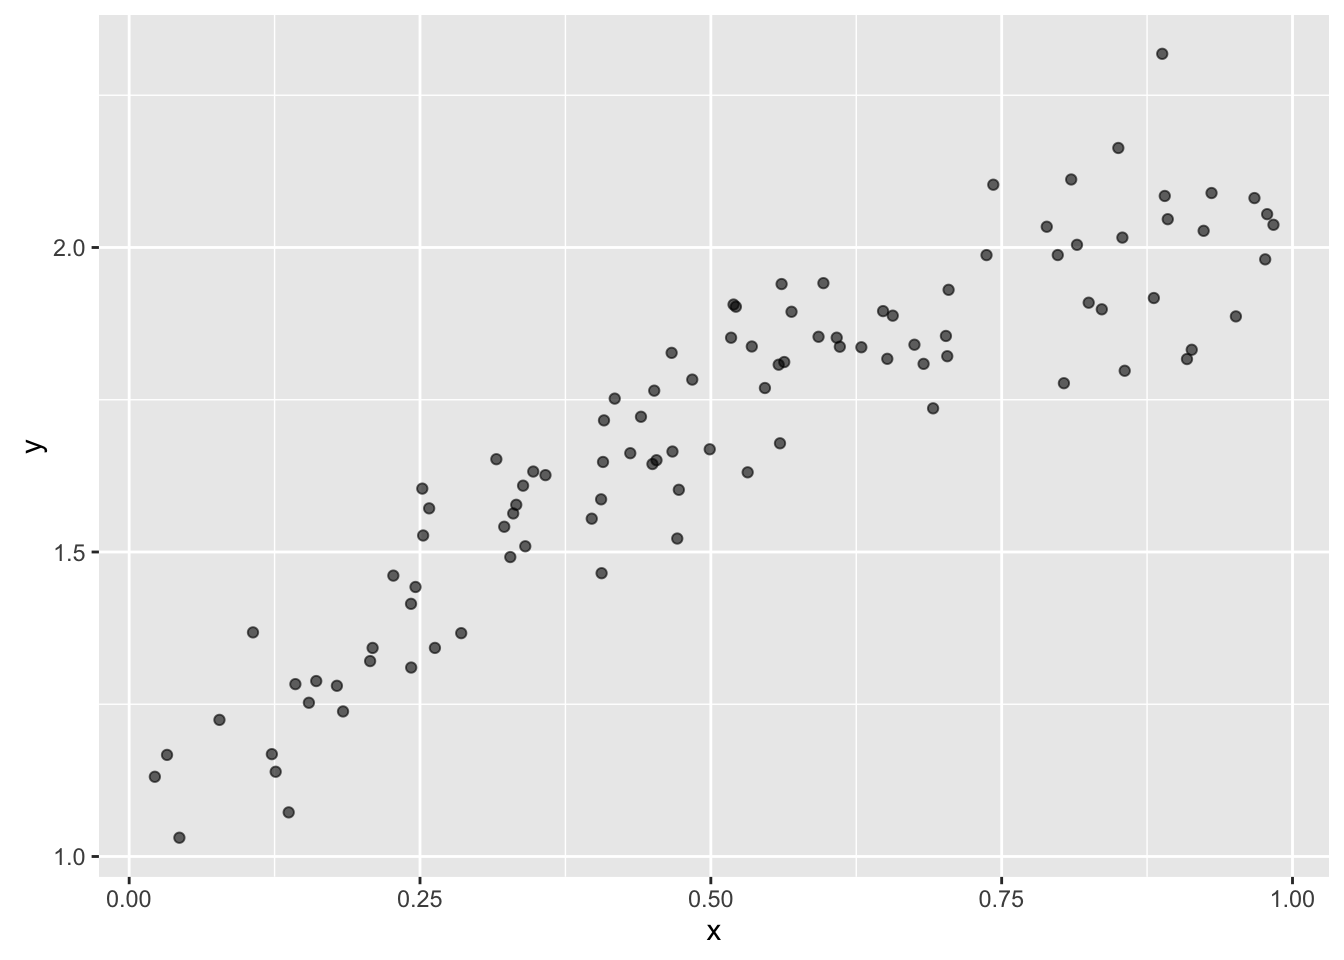
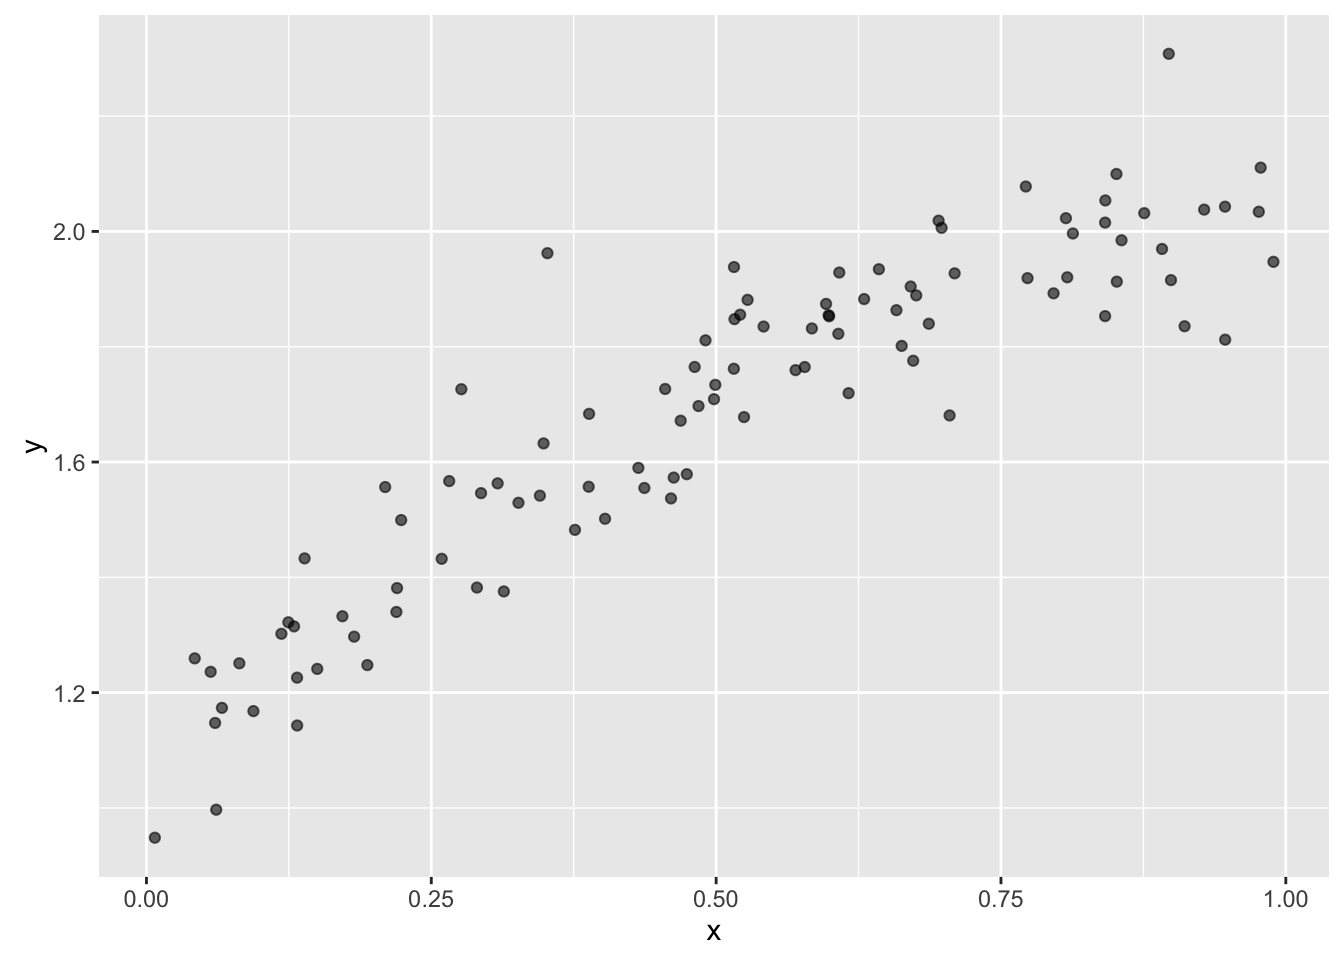
a start

diff --git a/model_cv_selection.html b/model_cv_selection.html
@@ -394,16 +394,16 @@ knitr::opts_chunk$set(comment = &quot;&quot;) # put this into a format, once dev
 <pre><code># A tibble: 100 x 2
            x        y
        &lt;dbl&gt;    &lt;dbl&gt;
-1  0.8927719 2.046467
-2  0.5215310 1.902777
-3  0.4711459 1.522086
-4  0.5925818 1.853393
-5  0.1428777 1.283034
-6  0.1544853 1.252456
-7  0.4498071 1.644448
-8  0.4056813 1.586462
-9  0.4060954 1.465173
-10 0.4662933 1.827002
+1  0.5210547 1.855529
+2  0.4627843 1.573038
+3  0.5244896 1.677966
+4  0.9891559 1.947288
+5  0.5416644 1.835031
+6  0.6756441 1.889039
+7  0.3519536 1.962250
+8  0.5697320 1.759407
+9  0.7733154 1.918960
+10 0.2193805 1.339989
 # ... with 90 more rows</code></pre>
 <p>Of course, our first step is to visualize the dataset.</p>
 <pre class="r"><code>ggplot(df, aes(x = x, y = y)) +
@@ -437,16 +437,16 @@ knitr::opts_chunk$set(comment = &quot;&quot;) # put this into a format, once dev
  $ train:List of 1
   ..$ :List of 2
   .. ..$ data:Classes &#39;tbl_df&#39;, &#39;tbl&#39; and &#39;data.frame&#39;: 100 obs. of  2 variables:
-  .. .. ..$ x: num  0.893 0.522 0.471 0.593 0.143 ...
-  .. .. ..$ y: num  2.05 1.9 1.52 1.85 1.28 ...
-  .. ..$ idx : int  1 2 3 4 5 6 8 10 11 13 ...
+  .. .. ..$ x: num  0.521 0.463 0.524 0.989 0.542 ...
+  .. .. ..$ y: num  1.86 1.57 1.68 1.95 1.84 ...
+  .. ..$ idx : int  1 2 3 5 6 8 9 10 11 12 ...
   .. ..- attr(*, &quot;class&quot;)= chr &quot;resample&quot;
  $ test :List of 1
   ..$ :List of 2
   .. ..$ data:Classes &#39;tbl_df&#39;, &#39;tbl&#39; and &#39;data.frame&#39;: 100 obs. of  2 variables:
-  .. .. ..$ x: num  0.893 0.522 0.471 0.593 0.143 ...
-  .. .. ..$ y: num  2.05 1.9 1.52 1.85 1.28 ...
-  .. ..$ idx : int  7 9 12 20 27 30 32 35 36 38 ...
+  .. .. ..$ x: num  0.521 0.463 0.524 0.989 0.542 ...
+  .. .. ..$ y: num  1.86 1.57 1.68 1.95 1.84 ...
+  .. ..$ idx : int  4 7 13 30 31 33 34 39 52 55 ...
   .. ..- attr(*, &quot;class&quot;)= chr &quot;resample&quot;
  $ .id  : chr &quot;01&quot;</code></pre>
 <p>One thing you may notice is that both the train and test elements both <em>appear</em> to contain the entire original dataset. In fact, R keeps a single copy of the original dataframe, then uses pointers wherever it is used elsewhere in the session. For more, you can read <a href="http://adv-r.had.co.nz/memory.html#object-size">this section</a> and how I got some help in <a href="https://github.com/hadley/modelr/issues/14">this thread</a>.</p>
@@ -519,16 +519,16 @@ sample_response &lt;- function(sample, model){
 <pre><code># A tibble: 5,000 x 5
      .id split     pred     resp        resid
    &lt;chr&gt; &lt;chr&gt;    &lt;dbl&gt;    &lt;dbl&gt;        &lt;dbl&gt;
-1     01 train 2.051176 2.046467  0.004709138
-2     01 train 1.701208 1.902777 -0.201568278
-3     01 train 1.653710 1.522086  0.131624137
-4     01 train 1.768188 1.853393 -0.085205587
-5     01 train 1.344253 1.283034  0.061218773
-6     01 train 1.355195 1.252456  0.102738652
-7     01 train 1.591997 1.586462  0.005534927
-8     01 train 1.649136 1.827002 -0.177866032
-9     01 train 1.382865 1.238150  0.144714047
-10    01 train 1.665857 1.783083 -0.117225545
+1     01 train 1.706350 1.855529 -0.149178776
+2     01 train 1.652638 1.573038  0.079599650
+3     01 train 1.709516 1.677966  0.031550473
+4     01 train 1.725347 1.835031 -0.109683252
+5     01 train 1.848846 1.889039 -0.040193328
+6     01 train 1.751219 1.759407 -0.008187925
+7     01 train 1.938876 1.918960  0.019916145
+8     01 train 1.428275 1.339989  0.088286744
+9     01 train 1.785805 1.822474 -0.036668960
+10    01 train 1.686278 1.733915 -0.047637221
 # ... with 4,990 more rows</code></pre>
 <p>The thing we are interested to do is to compare the performance of models on their trianing sets with their proformance on their test sets. One way we can do this is to make qualitative assesments of the kernel density of the residuals.</p>
 <pre class="r"><code>ggplot(df_split_resid, aes(x = resid, color = split, group = paste(split, .id))) +
@@ -551,18 +551,18 @@ sample_response &lt;- function(sample, model){
   ungroup() %&gt;%
   print()</code></pre>
 <pre><code># A tibble: 100 x 3
-     .id split       rmse
-   &lt;chr&gt; &lt;chr&gt;      &lt;dbl&gt;
-1     01  test 0.09471402
-2     01 train 0.12035975
-3     02  test 0.10187266
-4     02 train 0.11923916
-5     03  test 0.10918876
-6     03 train 0.11693297
-7     04  test 0.12322093
-8     04 train 0.11332477
-9     05  test 0.11603920
-10    05 train 0.11516445
+     .id split      rmse
+   &lt;chr&gt; &lt;chr&gt;     &lt;dbl&gt;
+1     01  test 0.1623577
+2     01 train 0.1042993
+3     02  test 0.1154751
+4     02 train 0.1189499
+5     03  test 0.0981743
+6     03 train 0.1232048
+7     04  test 0.1217852
+8     04 train 0.1174028
+9     05  test 0.1061283
+10    05 train 0.1212039
 # ... with 90 more rows</code></pre>
 <p>We can visualize this summary.</p>
 <pre class="r"><code>ggplot(df_split_rmse, aes(x = &quot;linear&quot;, y = rmse)) +
@@ -587,6 +587,9 @@ sample_response &lt;- function(sample, model){
   order
   
   function(df){
+    
+    df &lt;- as.data.frame(df)
+    
     lm(y ~ poly(x, order), data = df)
   }
 }</code></pre>
@@ -594,7 +597,7 @@ sample_response &lt;- function(sample, model){
 <pre class="r"><code>df_model &lt;-
   frame_data(
     ~model_name, ~model_creator,
-    &quot;zero&quot;, make_model(0),
+#    &quot;zero&quot;, make_model(0),
     &quot;one&quot;, make_model(1),
     &quot;two&quot;, make_model(2),
     &quot;three&quot;, make_model(3),
@@ -602,15 +605,14 @@ sample_response &lt;- function(sample, model){
     &quot;five&quot;,  make_model(5)
   ) %&gt;% 
   print()</code></pre>
-<pre><code># A tibble: 6 x 2
+<pre><code># A tibble: 5 x 2
   model_name model_creator
        &lt;chr&gt;        &lt;list&gt;
-1       zero         &lt;fun&gt;
-2        one         &lt;fun&gt;
-3        two         &lt;fun&gt;
-4      three         &lt;fun&gt;
-5       four         &lt;fun&gt;
-6       five         &lt;fun&gt;</code></pre>
+1        one         &lt;fun&gt;
+2        two         &lt;fun&gt;
+3      three         &lt;fun&gt;
+4       four         &lt;fun&gt;
+5       five         &lt;fun&gt;</code></pre>
 <p>Note to self, it would be interesting to have a function that takes a model as an input and returns a metric of complexity. Could be useful later.</p>
 <p>Let’s join this model dataframe to the split-sample dataframe.</p>
 <pre class="r"><code>df_sample_model &lt;- 
@@ -619,20 +621,120 @@ sample_response &lt;- function(sample, model){
   left_join(df_split, by = &quot;.id&quot;) %&gt;%
   left_join(df_model, by = &quot;model_name&quot;) %&gt;%
   print()</code></pre>
-<pre><code># A tibble: 300 x 5
+<pre><code># A tibble: 250 x 5
      .id model_name          train           test model_creator
    &lt;chr&gt;      &lt;chr&gt;         &lt;list&gt;         &lt;list&gt;        &lt;list&gt;
-1     01       zero &lt;S3: resample&gt; &lt;S3: resample&gt;         &lt;fun&gt;
-2     02       zero &lt;S3: resample&gt; &lt;S3: resample&gt;         &lt;fun&gt;
-3     03       zero &lt;S3: resample&gt; &lt;S3: resample&gt;         &lt;fun&gt;
-4     04       zero &lt;S3: resample&gt; &lt;S3: resample&gt;         &lt;fun&gt;
-5     05       zero &lt;S3: resample&gt; &lt;S3: resample&gt;         &lt;fun&gt;
-6     06       zero &lt;S3: resample&gt; &lt;S3: resample&gt;         &lt;fun&gt;
-7     07       zero &lt;S3: resample&gt; &lt;S3: resample&gt;         &lt;fun&gt;
-8     08       zero &lt;S3: resample&gt; &lt;S3: resample&gt;         &lt;fun&gt;
-9     09       zero &lt;S3: resample&gt; &lt;S3: resample&gt;         &lt;fun&gt;
-10    10       zero &lt;S3: resample&gt; &lt;S3: resample&gt;         &lt;fun&gt;
-# ... with 290 more rows</code></pre>
+1     01        one &lt;S3: resample&gt; &lt;S3: resample&gt;         &lt;fun&gt;
+2     02        one &lt;S3: resample&gt; &lt;S3: resample&gt;         &lt;fun&gt;
+3     03        one &lt;S3: resample&gt; &lt;S3: resample&gt;         &lt;fun&gt;
+4     04        one &lt;S3: resample&gt; &lt;S3: resample&gt;         &lt;fun&gt;
+5     05        one &lt;S3: resample&gt; &lt;S3: resample&gt;         &lt;fun&gt;
+6     06        one &lt;S3: resample&gt; &lt;S3: resample&gt;         &lt;fun&gt;
+7     07        one &lt;S3: resample&gt; &lt;S3: resample&gt;         &lt;fun&gt;
+8     08        one &lt;S3: resample&gt; &lt;S3: resample&gt;         &lt;fun&gt;
+9     09        one &lt;S3: resample&gt; &lt;S3: resample&gt;         &lt;fun&gt;
+10    10        one &lt;S3: resample&gt; &lt;S3: resample&gt;         &lt;fun&gt;
+# ... with 240 more rows</code></pre>
+<p>We now have a dataframe that has, for each combination of split and model-specification, a training set and a function that can be used to build a model. We make a convenience function to put our model-creator functions to use, then create our models:</p>
+<pre class="r"><code>make_model &lt;- function(data, model_creator){
+  model_creator(data)
+}
+
+df_sample_model_created &lt;-
+  df_sample_model %&gt;%
+  mutate(
+    model = map2(train, model_creator, make_model)
+  ) %&gt;%
+  print()</code></pre>
+<pre><code># A tibble: 250 x 6
+     .id model_name          train           test model_creator    model
+   &lt;chr&gt;      &lt;chr&gt;         &lt;list&gt;         &lt;list&gt;        &lt;list&gt;   &lt;list&gt;
+1     01        one &lt;S3: resample&gt; &lt;S3: resample&gt;         &lt;fun&gt; &lt;S3: lm&gt;
+2     02        one &lt;S3: resample&gt; &lt;S3: resample&gt;         &lt;fun&gt; &lt;S3: lm&gt;
+3     03        one &lt;S3: resample&gt; &lt;S3: resample&gt;         &lt;fun&gt; &lt;S3: lm&gt;
+4     04        one &lt;S3: resample&gt; &lt;S3: resample&gt;         &lt;fun&gt; &lt;S3: lm&gt;
+5     05        one &lt;S3: resample&gt; &lt;S3: resample&gt;         &lt;fun&gt; &lt;S3: lm&gt;
+6     06        one &lt;S3: resample&gt; &lt;S3: resample&gt;         &lt;fun&gt; &lt;S3: lm&gt;
+7     07        one &lt;S3: resample&gt; &lt;S3: resample&gt;         &lt;fun&gt; &lt;S3: lm&gt;
+8     08        one &lt;S3: resample&gt; &lt;S3: resample&gt;         &lt;fun&gt; &lt;S3: lm&gt;
+9     09        one &lt;S3: resample&gt; &lt;S3: resample&gt;         &lt;fun&gt; &lt;S3: lm&gt;
+10    10        one &lt;S3: resample&gt; &lt;S3: resample&gt;         &lt;fun&gt; &lt;S3: lm&gt;
+# ... with 240 more rows</code></pre>
+<p>Now, lets generate some residuals:</p>
+<pre class="r"><code>df_sample_resid &lt;-
+  df_sample_model_created %&gt;%
+  gather(key = split, value = data, train, test) %&gt;%
+  mutate(
+    pred = map2(data, model, sample_prediction),
+    resp = map2(data, model, sample_response)
+  ) %&gt;%
+  select(.id, model_name, split, pred, resp) %&gt;%
+  unnest() %&gt;%
+  mutate(resid = pred - resp) %&gt;%
+  print()</code></pre>
+<pre><code># A tibble: 25,000 x 6
+     .id model_name split     pred     resp        resid
+   &lt;chr&gt;      &lt;chr&gt; &lt;chr&gt;    &lt;dbl&gt;    &lt;dbl&gt;        &lt;dbl&gt;
+1     01        one train 1.706350 1.855529 -0.149178776
+2     01        one train 1.652638 1.573038  0.079599650
+3     01        one train 1.709516 1.677966  0.031550473
+4     01        one train 1.725347 1.835031 -0.109683252
+5     01        one train 1.848846 1.889039 -0.040193328
+6     01        one train 1.751219 1.759407 -0.008187925
+7     01        one train 1.938876 1.918960  0.019916145
+8     01        one train 1.428275 1.339989  0.088286744
+9     01        one train 1.785805 1.822474 -0.036668960
+10    01        one train 1.686278 1.733915 -0.047637221
+# ... with 24,990 more rows</code></pre>
+<p>And look at some kernel-density distributions:</p>
+<pre class="r"><code>df_sample_resid %&gt;%
+  mutate(model_name = factor(model_name, levels = c(&quot;one&quot;, &quot;two&quot;, &quot;three&quot;, &quot;four&quot;, &quot;five&quot;))) %&gt;%
+  ggplot(aes(x = resid, color = split, group = paste(split, .id))) +
+  stat_density(
+    aes(y = ..density..), 
+    geom = &quot;line&quot;, 
+    position = &quot;identity&quot;,
+    alpha = 0.3
+  ) +
+  facet_wrap(~ model_name) +
+  guides(color = guide_legend(override.aes = list(alpha = 1)))</code></pre>
+<p><img src="model_cv_selection_files/figure-html/unnamed-chunk-14-1.png" width="672" /></p>
+<pre class="r"><code>df_sample_rmse &lt;- 
+  df_sample_resid %&gt;%
+  group_by(.id, model_name, split) %&gt;%
+  summarize(
+    rmse = sqrt(sum(resid*resid)/length(resid))
+  ) %&gt;%
+  ungroup() %&gt;%
+  print()</code></pre>
+<pre><code># A tibble: 500 x 4
+     .id model_name split       rmse
+   &lt;chr&gt;      &lt;chr&gt; &lt;chr&gt;      &lt;dbl&gt;
+1     01       five  test 0.14853889
+2     01       five train 0.09358149
+3     01       four  test 0.15137501
+4     01       four train 0.09367255
+5     01        one  test 0.16235774
+6     01        one train 0.10429925
+7     01      three  test 0.14097677
+8     01      three train 0.09409568
+9     01        two  test 0.12855223
+10    01        two train 0.09539883
+# ... with 490 more rows</code></pre>
+<pre class="r"><code>df_sample_rmse %&gt;%
+  mutate(model_name = factor(model_name, levels = c(&quot;one&quot;, &quot;two&quot;, &quot;three&quot;, &quot;four&quot;, &quot;five&quot;))) %&gt;%
+  ggplot(aes(x = model_name, y = rmse, color = split, group = split)) +
+  stat_summary(geom = &quot;line&quot;, fun.y = &quot;median&quot;) +
+  geom_point(
+    position = position_jitterdodge(jitter.width = 0.2, dodge.width = 0.5),
+    alpha = 0.5
+  ) +
+  ylim(0, NA) +
+  guides(color = guide_legend(override.aes = list(alpha = 1)))</code></pre>
+<p><img src="model_cv_selection_files/figure-html/unnamed-chunk-16-1.png" width="672" /></p>
+<p>The “two” model is the winner.</p>
+<p>The lines connect the median rmse for each model-type. I need to find a way to characterize the complexity of a given model so that the x-axis can be automatically sorted (maybe rmse on training error can be used to sort within groups of equally-complex models).</p>
+<p>Some work to do, but I think this is headed somehwere.</p>
 </div>
 </div>
 <div id="logistic-regression" class="section level2">
@@ -649,7 +751,7 @@ sample_response &lt;- function(sample, model){
  language (EN)                        
  collate  en_US.UTF-8                 
  tz       America/Chicago             
- date     2016-08-02                  </code></pre>
+ date     2016-08-03                  </code></pre>
 <pre><code>Packages ------------------------------------------------------------------</code></pre>
 <pre><code> package    * version    date       source                
  assertthat   0.1        2013-12-06 CRAN (R 3.3.0)        
